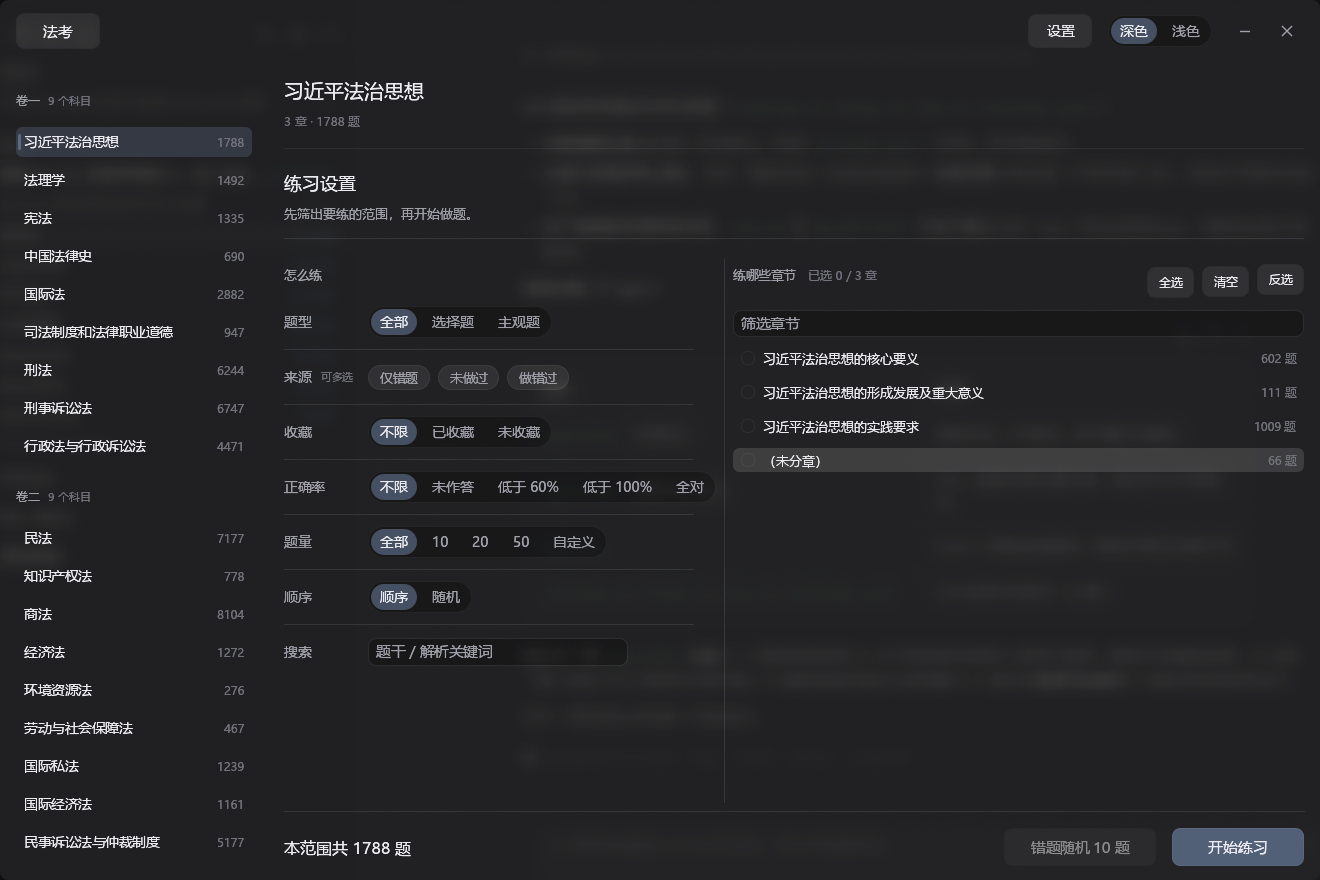
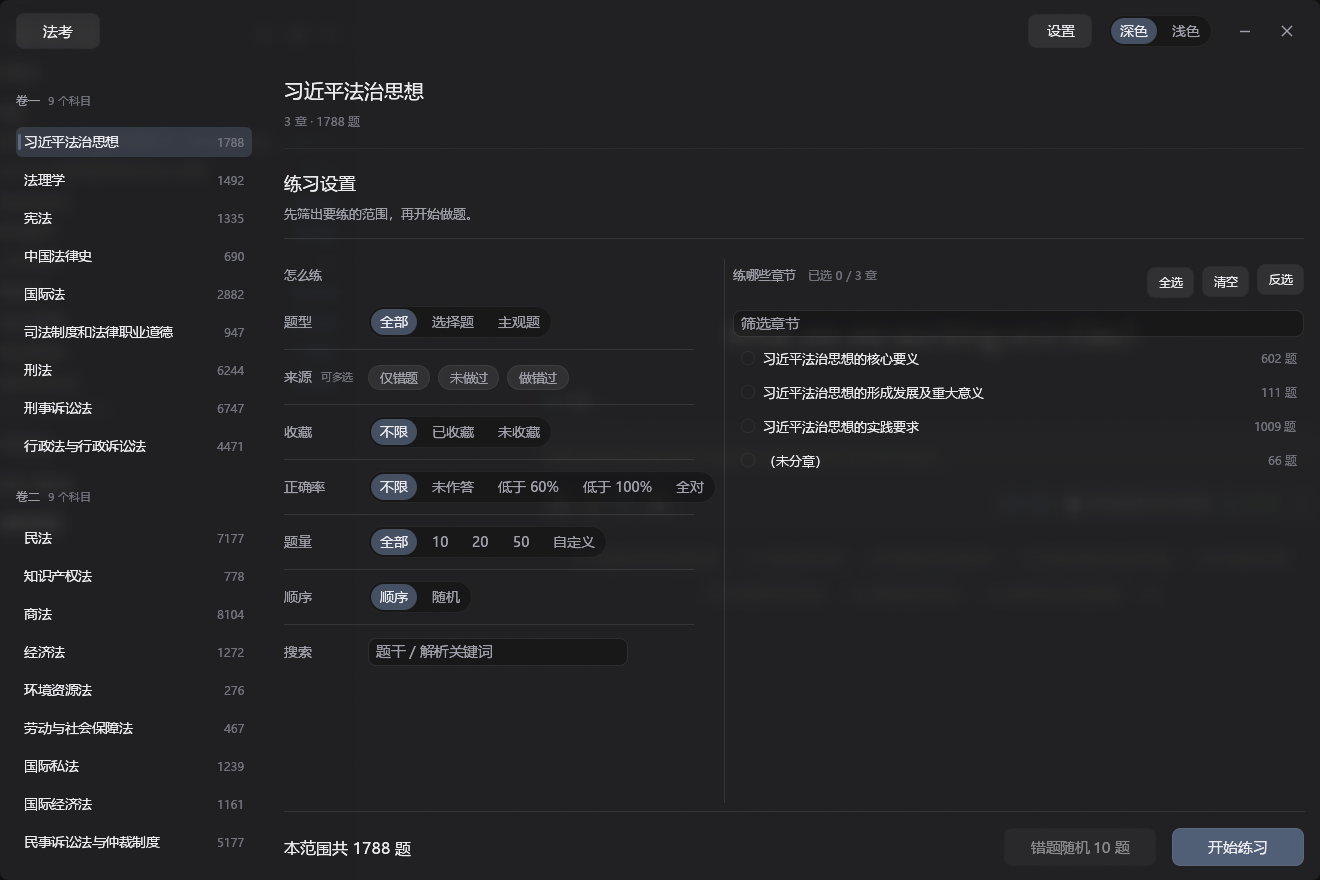
theme: light theme is see-through again, as the reference app is
v0.15 made every light surface opaque, which fixed the grey body but killed
the transparency. The reference app does not do that: its panels are
`background: transparent` and the root paints the translucent `window-bg`
once -- only `surface` / `surface-2` / `well` are opaque. Copying that split
instead:

  glass.fill         opaque white -> transparent
                     (the top bar, rail and main area are the sheet itself,
                      so the frosted desktop shows through the body)
  glass.fill_strong  #F0F1F4 opaque  (rows, buttons, hover -- reference surface-2)
  glass.fill_sunken  #F2F3F6 opaque  (wells, input tracks -- reference well)
  glass.solid        #FFFFFF opaque  (the modal, unchanged: always "right")

`paint::fill` now skips a fully transparent fill instead of painting a
no-op shape every frame.

The arithmetic is unchanged and now the 透明度 slider is the control:
over a dark desktop the light body reads 0.8 x 244 + 0.2 x desktop, so
~200 at the default 20 and 244 at 0. That is recorded in DESIGN.md.
The modal stays opaque at any setting.

Test `surfaces_are_translucent_but_visible` now asserts the light split:
regions carry no fill, rows/wells/modal are opaque.

Changed region(s): [[0.5591, 0.4909, 0.9939, 0.5523]]

diff --git a/src/bin/studyapp/theme/tokens.rs b/src/bin/studyapp/theme/tokens.rs
@@ -270,10 +270,13 @@ impl Palette {
                 scrim: rgba(244, 245, 247, 228),
             },
             glass: Glass {
-                // Opaque, like the reference's surfaces: the desktop must not
-                // tint the body. Opaque-white panels over the pale sheet are
-                // what keep the light theme bright.
-                fill: rgb(255, 255, 255),
+                // The reference's split, and the reason its light theme is both
+                // see-through and bright: its panels are `transparent` (the root
+                // paints `window-bg` once) and only its surfaces are opaque. So
+                // our regions are the sheet itself -- the frosted desktop shows
+                // through the body -- while rows, wells and the modal stay
+                // opaque and crisp.
+                fill: rgba(255, 255, 255, 0),
                 fill_strong: rgb(240, 241, 244),
                 fill_sunken: rgb(242, 243, 246),
                 solid: rgb(255, 255, 255),
@@ -442,9 +445,10 @@ mod tests {
     #[test]
     fn surfaces_are_translucent_but_visible() {
         // Dark keeps translucent washes over the sheet. Light copies the
-        // reference app, where every surface is opaque and only the window
-        // background is translucent -- that is what keeps a light theme bright
-        // over a dark desktop instead of grey.
+        // reference app's split: its panels are transparent and the root paints
+        // the translucent `window-bg` once, so our regions carry no fill of
+        // their own and the frosted desktop shows through the body -- while the
+        // rows, wells and modal stay opaque and crisp.
         let g = Tokens::new(Mode::Dark).palette.glass;
         assert!(g.fill.a() > 8, "a dark surface must be visible against the backdrop");
         assert!(g.fill.a() < 70, "but translucent, not an opaque slab");
@@ -455,13 +459,13 @@ mod tests {
         assert!(g.divider.a() > 0 && g.divider.a() < 80, "a hairline, not a line");
 
         let l = Tokens::new(Mode::Light).palette.glass;
-        assert_eq!(l.fill.a(), 255, "light surfaces are opaque");
-        assert_eq!(l.solid.a(), 255);
-        assert_eq!(l.fill_strong.a(), 255);
-        assert_eq!(l.fill_sunken.a(), 255);
+        assert_eq!(l.fill.a(), 0, "light regions are the sheet, as the reference's panels are");
+        assert_eq!(l.solid.a(), 255, "the modal stays opaque, as the reference's surface");
+        assert_eq!(l.fill_strong.a(), 255, "rows and buttons are opaque");
+        assert_eq!(l.fill_sunken.a(), 255, "and so are wells");
         assert_eq!(l.divider.a(), 255, "opaque hairline colours, as in the reference");
         assert_eq!(l.stroke.a(), 255);
-        assert!(l.fill.r() > 240, "and light, got {l:?}");
+        assert!(l.fill_strong.r() > 200 && l.fill_strong.g() > 200, "and light, got {l:?}");
 
         // Floating layers (popups / menus) are opaque in both modes -- a
         // translucent popup over the app reads as frosted glass, not a raised

diff --git a/src/bin/studyapp/glass/paint.rs b/src/bin/studyapp/glass/paint.rs
@@ -121,6 +121,12 @@ pub(crate) fn radial_mesh(
 pub fn fill(painter: &Painter, rect: Rect, tokens: &Tokens, strong: bool) {
     let g = &tokens.palette.glass;
     let color = if strong { g.fill_strong } else { g.fill };
+    // A region may deliberately carry no fill of its own — the light theme's
+    // regions are the sheet, as the reference app's panels are — so skip the
+    // shape rather than painting a fully transparent one every frame.
+    if color.a() == 0 {
+        return;
+    }
     painter.rect_filled(rect, CornerRadius::ZERO, color);
 }
 

diff --git a/DESIGN.md b/DESIGN.md
@@ -233,15 +233,18 @@ GUI 拆成入口 + 六个模块：`main.rs`（入口，仅 `mod` 声明 + `fn ma
 
 > `scrim` 是两种模式的关键：它必须够不透明，否则窗口后面若是浅色桌面，深色 UI 会被冲成灰白。
 > 浅色模式的 scrim 颜色取自参考项目 3D 资源库的 `window-bg`（`rgba(244,245,247,alpha)`），
-> alpha 仍由**透明度**设置驱动（默认 20 → 204）。
+> alpha 由**透明度**设置驱动（默认 20 → 204）。
 >
-> **浅色模式的表面是不透明的**（`rgb(255,255,255)` / `rgb(240,241,244)` / `rgb(242,243,246)`，
-> 依次对应参考项目的 `surface` / `surface-2` / `well`）。这是浅色主题唯一站得住的做法：只要表面还是
-> 「半透明白 / 黑洗」，窗口后面是深色桌面时整个正文就会被拉到 ~192 的灰；而设置弹窗
-> （`glass.solid`，不透明）永远是对的 —— 两者的差别就在这里，浅色主题应当长得像那个弹窗。
-> 深色模式维持原来的半透明白洗（18 / 32）：它本来就压在同为深色的桌面上，读数约 34，
-> 与参考项目的 `#1E1E1E` 几乎一致，所以不动。**代价是透明度 / 模糊现在只对深色模式可见** ——
-> 浅色主题的表面把桌面完全挡住了。
+> **浅色模式照抄参考项目的分层**：它的面板是 `transparent`（根节点只画一次 `window-bg`），
+> 只有 `surface` / `surface-2` / `well` 是不透明的。所以本应用的三个区域
+> （顶栏 / 左栏 / 主区，`glass.fill`）**不带自己的底色**，浅色下就是那张半透明的底 ——
+> 桌面透出来，正文是磨砂的；而**行、井、弹窗保持不透明**（`fill_strong` `#F0F1F4`、
+> `fill_sunken` `#F2F3F6`、`solid` `#FFFFFF`），所以控件和设置弹窗始终清晰、永远「是对的」。
+>
+> 代价是算术，不是 bug：浅色底在**深色**桌面上的读数 = `0.8 × 244 + 0.2 × 桌面`，
+> 默认 20 时约 **200**；想要更亮就把**透明度**滑到 0（读数 244，完全不透明）。
+> 深色模式不动：它的洗色本来就压在同为深色的桌面上，读数约 34，
+> 与参考项目的 `#1E1E1E` 几乎一致。
 
 > **选中 = 染色填充，不是描边。** 六个「选中 / 主要」状态（分段指示器、开关 chip、勾选框、主按钮、
 > chip、左栏选中行）一律用 `accent.soft` 系的**低透明染色填充**表达；描边保持中性（`glass.stroke`）
@@ -255,7 +258,7 @@ GUI 拆成入口 + 六个模块：`main.rs`（入口，仅 `mod` 声明 + `fn ma
 `theme/` 里十个测试守住两种模式的调色与浮层规则：`palette_is_dark_and_readable` /
 `light_palette_is_light_and_readable`（各自的底色 / 文字对比，浅色 scrim 浅且近乎实心，深色 scrim 深且近乎实心）/
 `accent_is_muted_not_saturated`（深色保持中性；浅色是参考项目的实蓝色） / `surfaces_are_translucent_but_visible`（深色：
-表面够透但可辨；浅色：表面**不透明**、浮层实心且留在本模式色系） / `edges_recede_and_selection_is_a_tint`（描边低于表面、
+表面够透但可辨；浅色：区域不带底色、行 / 井 / 弹窗不透明且留在本模式色系） / `edges_recede_and_selection_is_a_tint`（描边低于表面、
 染色填充是透明色不是实心块） / `mode_ids_round_trip`（`user.json` 的 `theme` 值解析），
 以及 `popups_are_flush_not_floating_glass`（**两种模式**：`Frame::popup` 读的 `window_fill` 必须不透明、
 `popup_shadow` 必须为 `NONE`、无顶边亮带、`menu_corner_radius` 与按钮一致）
